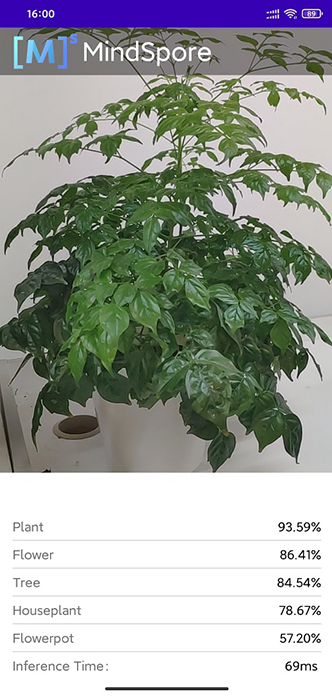
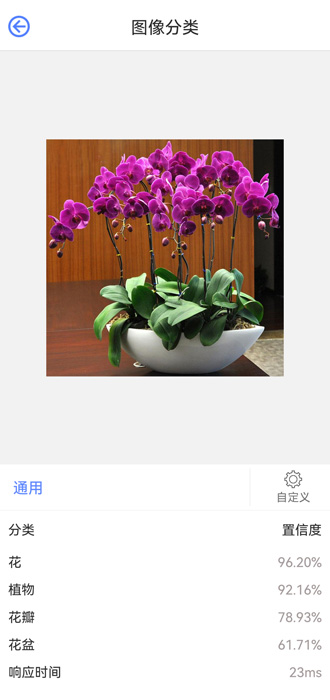
update quick_start remove unuse links and replace new photo

diff --git a/docs/lite/docs/source_zh_cn/quick_start/quick_start.md b/docs/lite/docs/source_zh_cn/quick_start/quick_start.md
@@ -52,7 +52,7 @@ call converter_lite --fmk=MINDIR --modelFile=mobilenetv2.mindir --outputFile=mob
 
 ### 构建与运行
 
-1. 在Android Studio中加载本[示例源码](https://gitee.com/mindspore/models/tree/master/official/lite/image_classification)，并安装相应的SDK（指定SDK版本后，由Android Studio自动安装）。
+1. 在Android Studio中加载本[示例源码](https://gitee.com/mindspore/vision/blob/r0.1/android)，并安装相应的SDK（指定SDK版本后，由Android Studio自动安装）。
 
     ![start_home](../images/lite_quick_start_home.png)
 
@@ -78,7 +78,7 @@ call converter_lite --fmk=MINDIR --modelFile=mobilenetv2.mindir --outputFile=mob
 
     ![install](../images/app1.png)
 
-    在默认情况下，MindSpore Vision分类模块内置了一个通用的AI网络模型对图像进行识别分类。也可以[自定义模型](https://mindspore.cn/tutorials/zh-CN/master/beginner/infer.html)在APP上进行调试。
+    在默认情况下，MindSpore Vision分类模块内置了一个通用的AI网络模型对图像进行识别分类。也可以[自定义模型](https://mindspore.cn/tutorials/zh-CN/r1.7/beginner/infer.html)在APP上进行调试。
 
     ![result](../images/app2.png)
 

diff --git a/docs/lite/docs/source_en/image_classification_lite.md b/docs/lite/docs/source_en/image_classification_lite.md
@@ -10,12 +10,12 @@ Image classification is to identity what an image represents, to predict the obj
 
 | Category   | Probability |
 | ---------- | ----------- |
-| plant      | 0.9359      |
-| flower     | 0.8641      |
-| tree       | 0.8584      |
-| houseplant | 0.7867      |
+| Flower      | 0.9620 |
+| Plant       | 0.9216 |
+| Petal       | 0.7893 |
+| Flowerpot   | 0.6171 |
 
-Using MindSpore Lite to realize image classification [example](https://gitee.com/mindspore/models/tree/master/official/lite/image_classification).
+Using MindSpore Lite to realize image classification [example](https://gitee.com/mindspore/vision/tree/r0.1/android).
 
 ## Image classification model list
 

diff --git a/docs/lite/docs/source_en/quick_start/quick_start.md b/docs/lite/docs/source_en/quick_start/quick_start.md
@@ -52,7 +52,7 @@ The following section describes how to build and execute an on-device image clas
 
 ### Building and Running
 
-1. Load the [sample source code](https://gitee.com/mindspore/models/tree/master/official/lite/image_classification) to Android Studio and install the corresponding SDK. (After the SDK version is specified, Android Studio automatically installs the SDK.)
+1. Load the [sample source code](https://gitee.com/mindspore/vision/blob/r0.1/android) to Android Studio and install the corresponding SDK. (After the SDK version is specified, Android Studio automatically installs the SDK.)
 
     ![start_home](../images/lite_quick_start_home.png)
 

diff --git a/docs/lite/docs/source_zh_cn/image_classification_lite.md b/docs/lite/docs/source_zh_cn/image_classification_lite.md
@@ -10,12 +10,12 @@
 
 | 类别       | 概率   |
 | ---------- | ------ |
-| plant      | 0.9359 |
-| flower     | 0.8641 |
-| tree       | 0.8584 |
-| houseplant | 0.7867 |
+| 花         | 0.9620 |
+| 植物       | 0.9216 |
+| 花瓣       | 0.7893 |
+| 花盆       | 0.6171 |
 
-使用MindSpore Lite实现图像分类的[示例代码](https://gitee.com/mindspore/models/tree/master/official/lite/image_classification)。
+使用MindSpore Lite实现图像分类的[示例代码](https://gitee.com/mindspore/vision/tree/r0.1/android)。
 
 ## 图像分类模型列表
 
